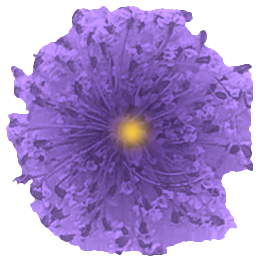
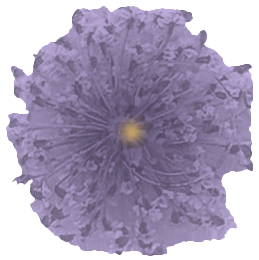
Pressed flowers recoloured in muted natural dried tones; dried plants back to the original photos
Claude-Session: https://claude.ai/code/session_01DjQemfhErfNEU4ZzJdMN5C

diff --git a/canvas.html b/canvas.html
@@ -7,7 +7,7 @@
   <link rel="preconnect" href="https://fonts.googleapis.com">
   <link rel="preconnect" href="https://fonts.gstatic.com" crossorigin>
   <link href="https://fonts.googleapis.com/css2?family=Cormorant+Garamond:wght@500;600&family=Jost:wght@400;500;700&family=Archivo+Black&family=Bagel+Fat+One&family=Noto+Sans+Thai:wght@400;500&family=Noto+Serif+Thai:wght@500;600&display=swap" rel="stylesheet">
-  <link rel="stylesheet" href="style.css?v=98">
+  <link rel="stylesheet" href="style.css?v=99">
   <title>Design a canvas — Resincraftcode</title>
   <meta name="description" content="Order a handmade resin canvas in any size. Beach style, or add your own photo and choose the shape.">
 </head>
@@ -17,11 +17,11 @@
   <footer class="site-footer" id="site-footer"></footer>
   <div class="toast" id="toast" role="status" aria-live="polite"><span id="toast-text"></span></div>
 
-  <script src="config.js?v=98"></script>
-  <script src="i18n.js?v=98"></script>
-  <script src="i18n-site.js?v=98"></script>
-  <script src="i18n-extra.js?v=98"></script>
-  <script src="core.js?v=98"></script>
-  <script src="canvas.js?v=98"></script>
+  <script src="config.js?v=99"></script>
+  <script src="i18n.js?v=99"></script>
+  <script src="i18n-site.js?v=99"></script>
+  <script src="i18n-extra.js?v=99"></script>
+  <script src="core.js?v=99"></script>
+  <script src="canvas.js?v=99"></script>
 </body>
 </html>

diff --git a/idea.html b/idea.html
@@ -7,7 +7,7 @@
   <link rel="preconnect" href="https://fonts.googleapis.com">
   <link rel="preconnect" href="https://fonts.gstatic.com" crossorigin>
   <link href="https://fonts.googleapis.com/css2?family=Cormorant+Garamond:wght@500;600&family=Jost:wght@400;500;700&family=Archivo+Black&family=Bagel+Fat+One&family=Noto+Sans+Thai:wght@400;500&family=Noto+Serif+Thai:wght@500;600&display=swap" rel="stylesheet">
-  <link rel="stylesheet" href="style.css?v=98">
+  <link rel="stylesheet" href="style.css?v=99">
   <title>Send your idea — Resincraftcode</title>
   <meta name="description" content="Send a photo or sketch and Resincraftcode will make it into a handmade resin keychain.">
 </head>
@@ -17,11 +17,11 @@
   <footer class="site-footer" id="site-footer"></footer>
   <div class="toast" id="toast" role="status" aria-live="polite"><span id="toast-text"></span></div>
 
-  <script src="config.js?v=98"></script>
-  <script src="i18n.js?v=98"></script>
-  <script src="i18n-site.js?v=98"></script>
-  <script src="i18n-extra.js?v=98"></script>
-  <script src="core.js?v=98"></script>
-  <script src="site.js?v=98"></script>
+  <script src="config.js?v=99"></script>
+  <script src="i18n.js?v=99"></script>
+  <script src="i18n-site.js?v=99"></script>
+  <script src="i18n-extra.js?v=99"></script>
+  <script src="core.js?v=99"></script>
+  <script src="site.js?v=99"></script>
 </body>
 </html>

diff --git a/index.html b/index.html
@@ -7,7 +7,7 @@
   <link rel="preconnect" href="https://fonts.googleapis.com">
   <link rel="preconnect" href="https://fonts.gstatic.com" crossorigin>
   <link href="https://fonts.googleapis.com/css2?family=Cormorant+Garamond:wght@500;600&family=Jost:wght@400;500;700&family=Archivo+Black&family=Bagel+Fat+One&family=Noto+Sans+Thai:wght@400;500&family=Noto+Serif+Thai:wght@500;600&display=swap" rel="stylesheet">
-  <link rel="stylesheet" href="style.css?v=98">
+  <link rel="stylesheet" href="style.css?v=99">
   <title>Resincraftcode — handmade resin keychains, Phuket</title>
   <meta name="description" content="Handmade resin letter keychains from Phuket. Choose a ready-made design, design your own, or send us your idea.">
 </head>
@@ -16,11 +16,11 @@
   <main id="home"></main>
   <footer class="site-footer" id="site-footer"></footer>
 
-  <script src="config.js?v=98"></script>
-  <script src="i18n.js?v=98"></script>
-  <script src="i18n-site.js?v=98"></script>
-  <script src="i18n-extra.js?v=98"></script>
-  <script src="core.js?v=98"></script>
-  <script src="site.js?v=98"></script>
+  <script src="config.js?v=99"></script>
+  <script src="i18n.js?v=99"></script>
+  <script src="i18n-site.js?v=99"></script>
+  <script src="i18n-extra.js?v=99"></script>
+  <script src="core.js?v=99"></script>
+  <script src="site.js?v=99"></script>
 </body>
 </html>

diff --git a/design.html b/design.html
@@ -7,7 +7,7 @@
   <link rel="preconnect" href="https://fonts.googleapis.com">
   <link rel="preconnect" href="https://fonts.gstatic.com" crossorigin>
   <link href="https://fonts.googleapis.com/css2?family=Cormorant+Garamond:wght@500;600&family=Jost:wght@400;500;700&family=Archivo+Black&family=Bagel+Fat+One&family=Noto+Sans+Thai:wght@400;500&family=Noto+Serif+Thai:wght@500;600&display=swap" rel="stylesheet">
-  <link rel="stylesheet" href="style.css?v=98">
+  <link rel="stylesheet" href="style.css?v=99">
   <title>Design your keychain — Resincraftcode</title>
   <meta name="description" content="Design your own handmade resin keychain, then send it to Resincraftcode by DM.">
 </head>
@@ -59,11 +59,11 @@
     <button type="button" id="toast-action" hidden></button>
   </div>
 
-  <script src="config.js?v=98"></script>
-  <script src="i18n.js?v=98"></script>
-  <script src="i18n-site.js?v=98"></script>
-  <script src="i18n-extra.js?v=98"></script>
-  <script src="core.js?v=98"></script>
-  <script src="app.js?v=98"></script>
+  <script src="config.js?v=99"></script>
+  <script src="i18n.js?v=99"></script>
+  <script src="i18n-site.js?v=99"></script>
+  <script src="i18n-extra.js?v=99"></script>
+  <script src="core.js?v=99"></script>
+  <script src="app.js?v=99"></script>
 </body>
 </html>
